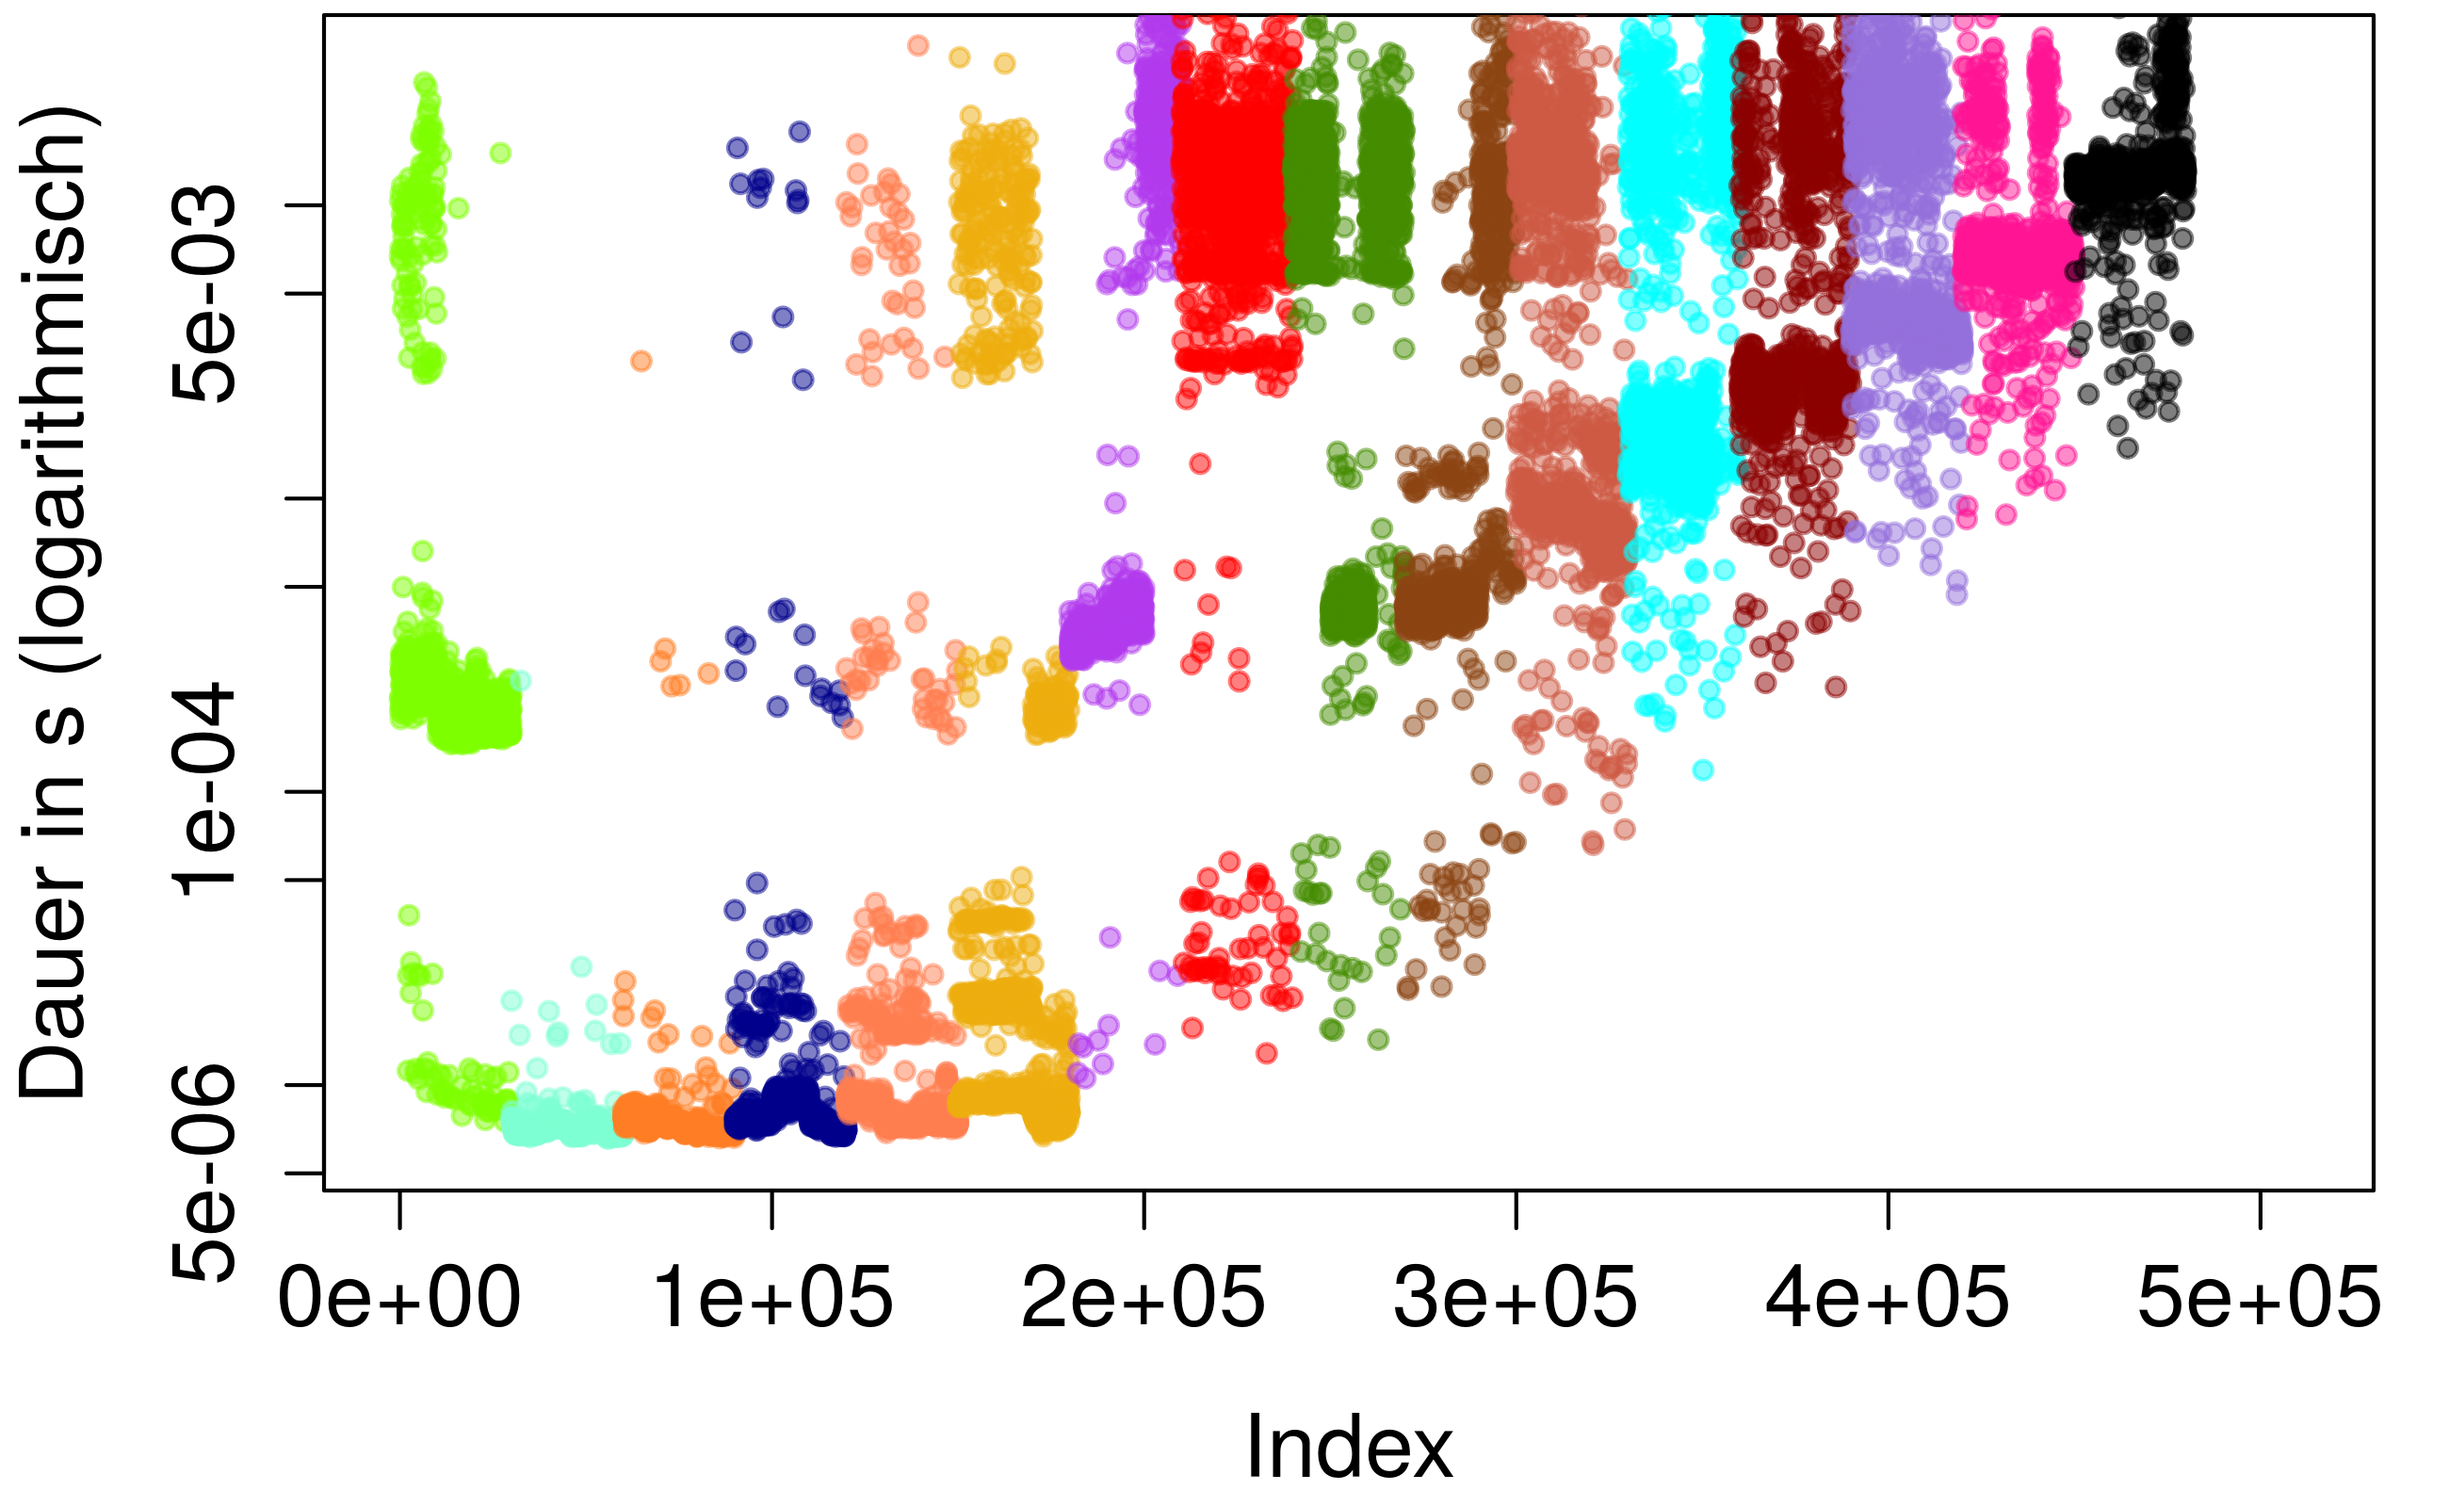
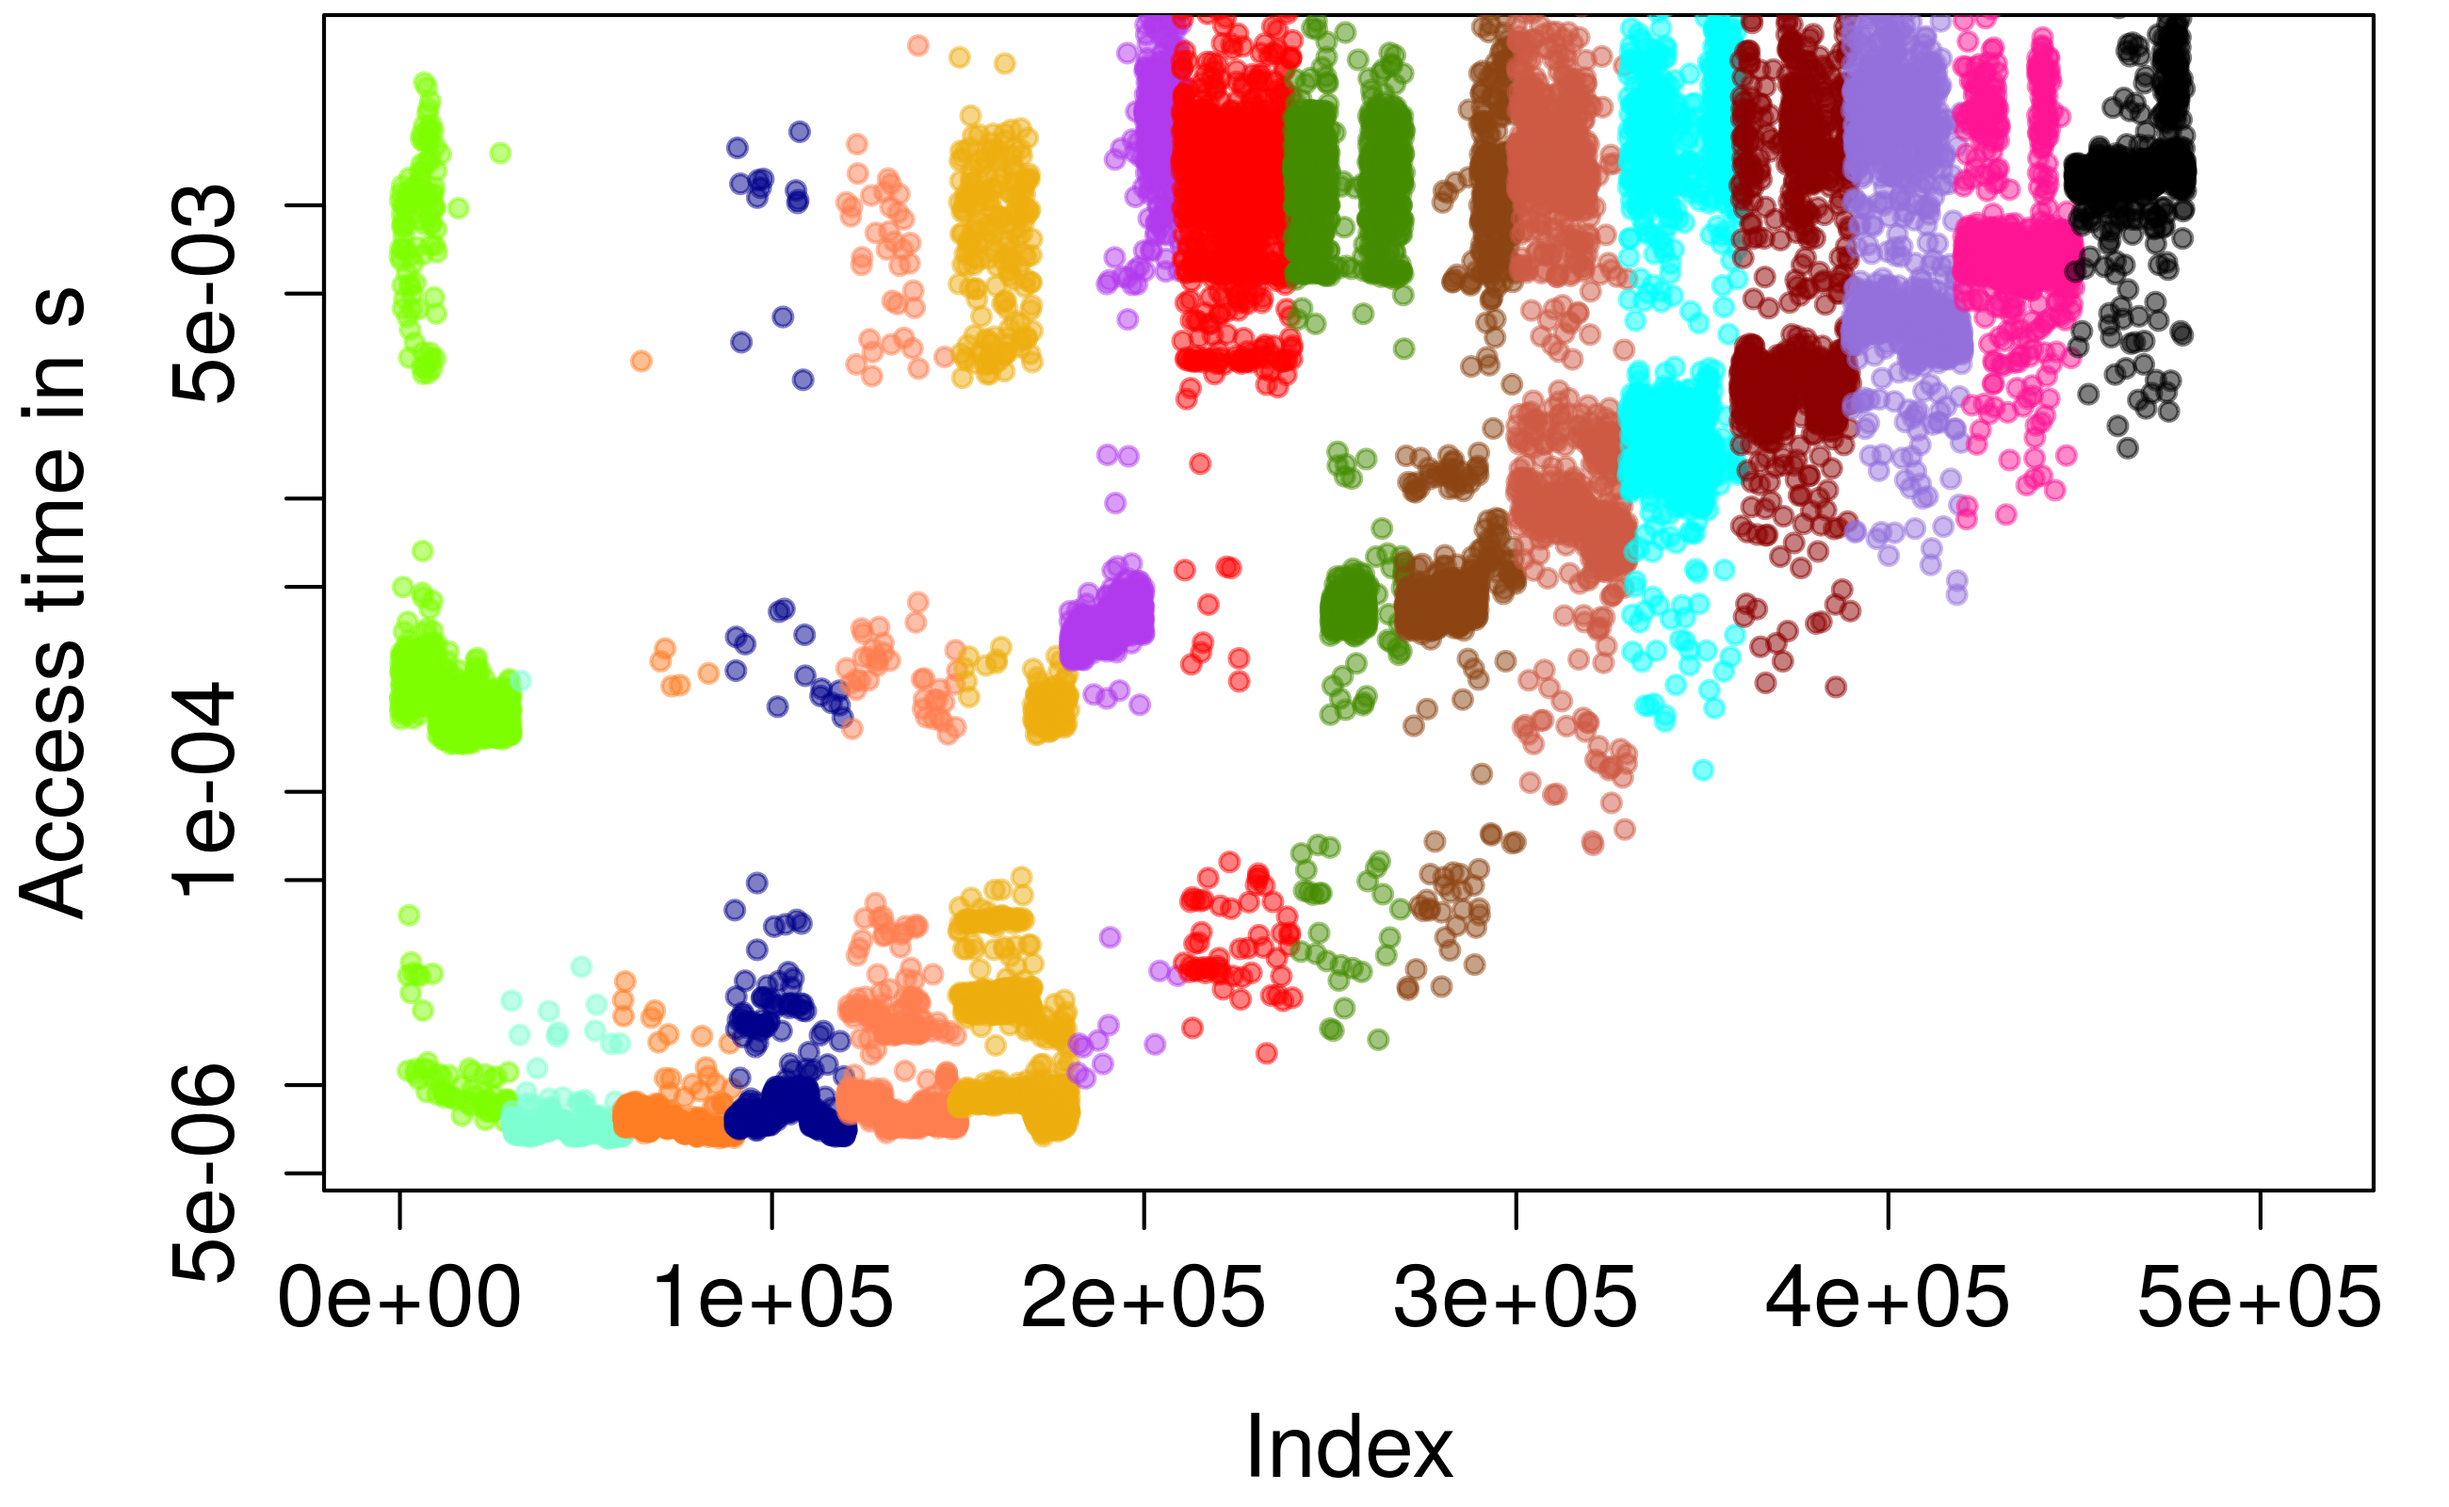
neue graphen und tabelle eingefügt

Changed region(s): [[0.0, 0.0625, 0.0623, 0.75]]

diff --git a/Poster/main.tex b/Poster/main.tex
@@ -237,7 +237,7 @@ For the use of I/O-paths as input information for the ANNs we developed a method
 	As baseline model linear regression was used for a simple mapping of access size to measured access time.
 	Additionally three \textbf{models with different input information utilizing ANNs were used}.
 	Every ANN-model received information about access sizes, file offsets and access types of an input.
-	One ANN also received information about the past data throughputs of the system, this can be used to exploit time dependencies of the I/O-performance in the system (see figure \ref{time_dep}). The last ANN received error classes as input.
+	One ANN also received information about the past data throughputs of the system, this can be used to exploit time dependencies of the I/O-performance in the system (see figure \ref{time_dep}). The last ANN received error classes as additional input.
 	
 	\begin{figure}
 		\subfloat[In this sequence peaks in the access times occure regularly.]{
@@ -263,7 +263,7 @@ For the use of I/O-paths as input information for the ANNs we developed a method
 \vspace*{-2cm}
 \begin{block}{Error Classes}
 	
-The idea of error classes is based on the fact that the \textbf{residues of a simple model are characteristic for the groups of measurements with different typical access times} and therefore also for the I/O-path used by the storage system for the corresponding file accesses. 
+The idea of error classes is based on the fact that \textbf{the residues of a simple model are characteristic for the groups of measurements with different typical access times} and therefore also for the I/O-path used by the storage system for the corresponding file accesses. 
 %Here a simple model is a model that doesn't discriminate measurements with similar parameters.
 Error classes are then obtained by clustering the residues of such a model with a k-Means algorithm.
 
@@ -297,20 +297,46 @@ Error classes are then obtained by clustering the residues of such a model with 
 
 \begin{block}{Results}
 	
-	From the residues of the different models it became clear that access times can't be modelled linearly.
+	From the residues of the different models (see table \ref{residues}) it became clear that access times shouldn't be modelled linearly.
 	Furthermore the exploitation of time dependencies of the storage system has been found to be difficult.
 	As our hypothesis predicted \textbf{it is essential to use knowledge about I/O-paths for precise predictions of access times}.
 	In figure \ref{preds} the difference in the predictions of the ANN without and with error class input can be seen.
 	The second ANN is able to classify file accesses correctly in respect to their I/O-path.
 	
+	
+	\begin{table}
+		\vspace{2ex}
+		\begin{tabular}{l|r|r}%
+			&  \multicolumn{2}{|c}{mean absolut error}\\ \hline
+			%\toprule
+			Modell & seq. access & rnd. access\\ \hline
+			%\midrule
+			Linear regression & $7.6\cdot 10^-5$ & $4.76\cdot 10^-3$ \\
+			ANN & $6.0\cdot 10^-5$ & $3.13\cdot 10^-3$ \\
+			ANN + time dependencies & $5.7\cdot 10^-5$ & $3.05\cdot 10^-3$\\
+			ANN + error classes & $2.0\cdot 10^-5$ & $1.03\cdot 10^-3$ \\
+			%\bottomrule
+		\end{tabular}
+		\caption{Mean absolut errors of the different models for the two different file access patterns.}
+		\label{residues}
+	\end{table}
+	
+%		\begin{tabular}{|r|r|r|r|r|r|r|r|r|}\hline%
+%			& \multicolumn{3}{|c|}{gemittelte Angaben} & \multicolumn{3}{|c|}{Angaben zu den Residuen} & \multicolumn{2}{r|}{zugeordnete Messungen} \\ \hline
+%			Klasse & Durchsatz (B/s) & Größe (B) & Dauer (s) & Min (s) & Durchschnitt (s) & Max (s) & auf SEQ selbst & auf RND \\ \hline\hline
+%			\csvreader[late after line=\\\hline]%
+%			{CSV/error_class/seq_linreg_classes_on_rnd.csv}{tp=\tp,idx = \idx,rndcount=\rndcount,minerror=\minerror, meanerror = \meanerror, maxerror = \maxerror, seqcount = \seqcount, size = \size, duration = \duration}%
+%			{\idx & \tp & \size & \duration & \minerror & \meanerror & \maxerror & \seqcount & \rndcount}%
+%		\end{tabular}
+	
+	\vspace*{-2cm}
 	\begin{figure}
 		\subfloat[ANN without error classes]{
-			\includegraphics[width=.58\textwidth]{src/plot_onlyPred_tuple1_Duration_rnd.png}
+			\includegraphics[width=.47\textwidth]{src/plot_onlyPred_tuple1_Duration_rnd.png}
 		}
-		%\hfill
-		\\
+		\hfill		
 		\subfloat[ANN with error classes]{
-			\includegraphics[width=.58\textwidth]{src/plot_onlyPred_tuple1_with_error_class_from_linreg_Duration_rnd.png}
+			\includegraphics[width=.47\textwidth]{src/plot_onlyPred_tuple1_with_error_class_from_linreg_Duration_rnd.png}
 		}	
 		\caption{Measurements with random access pattern. Measured access times in black; predictions in blue.}
 		\label{preds}
